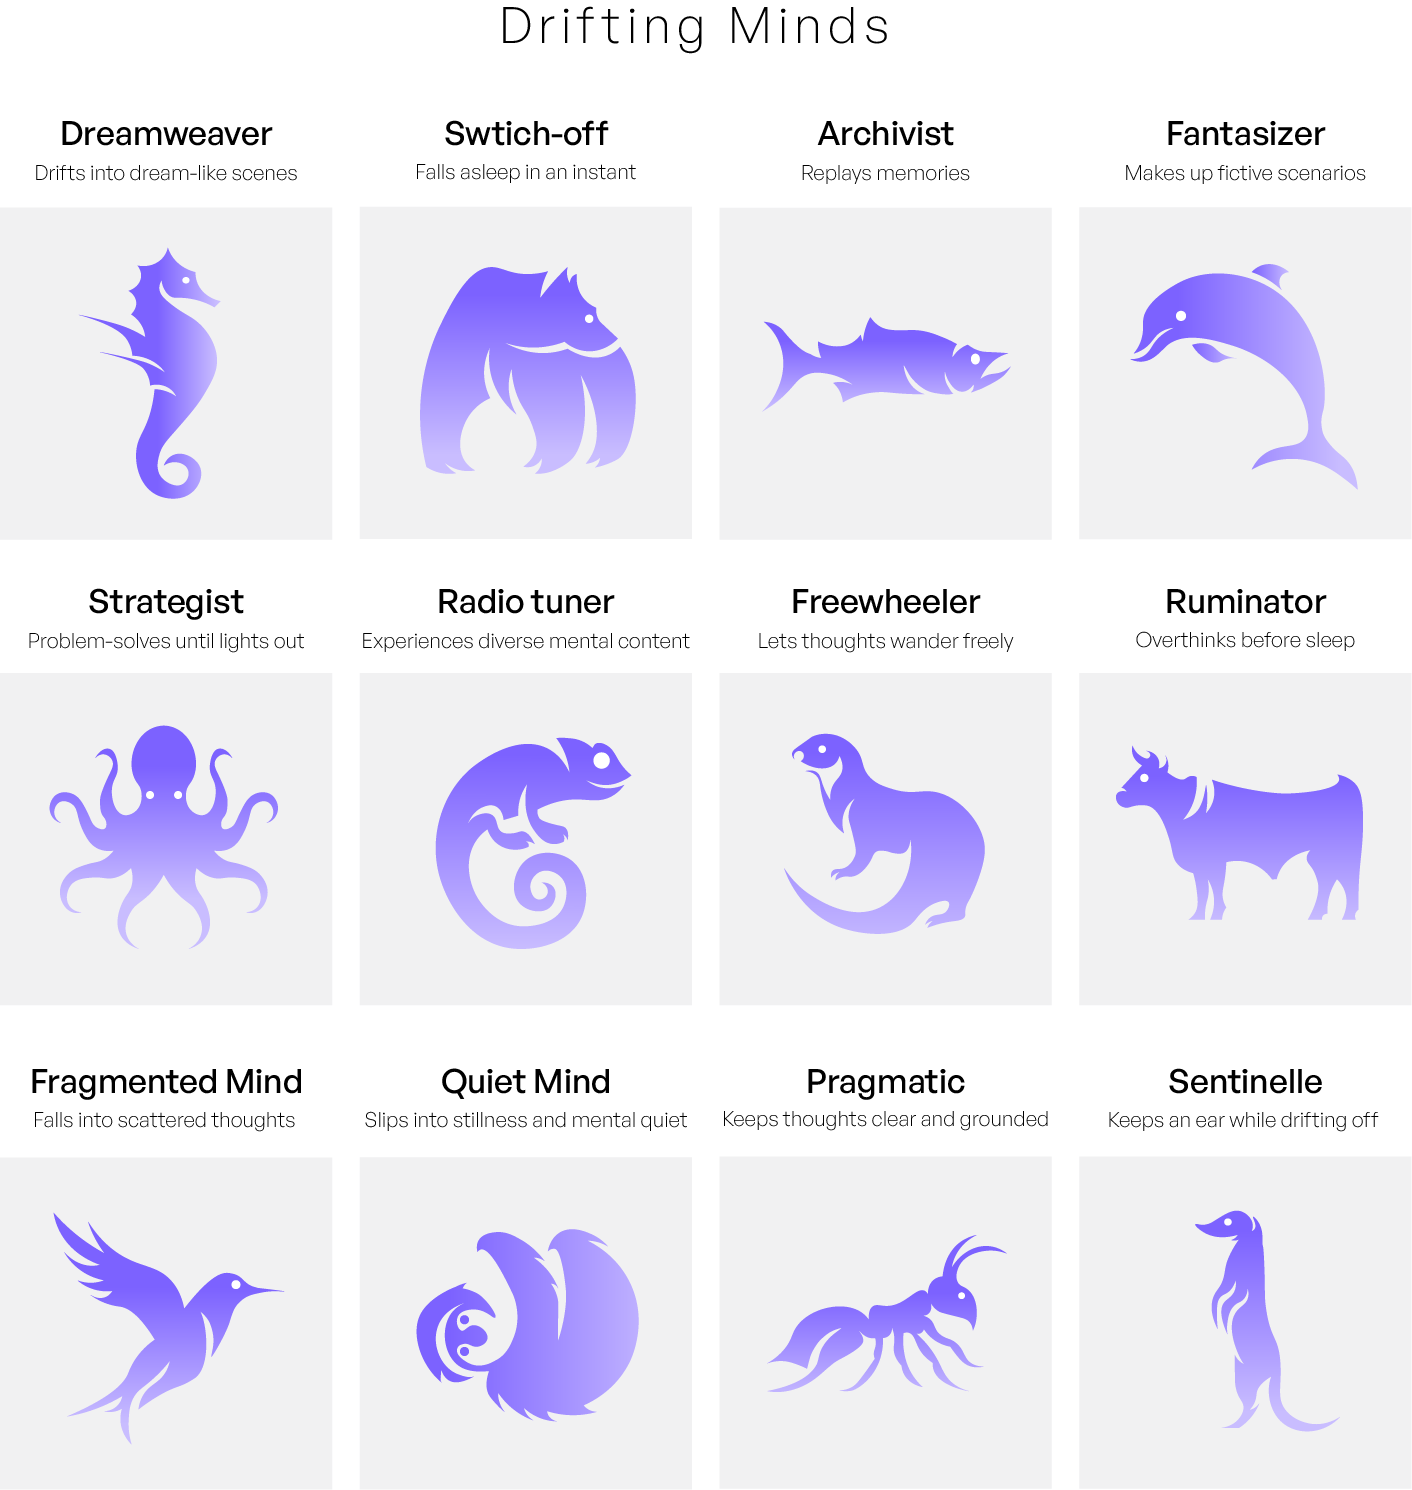
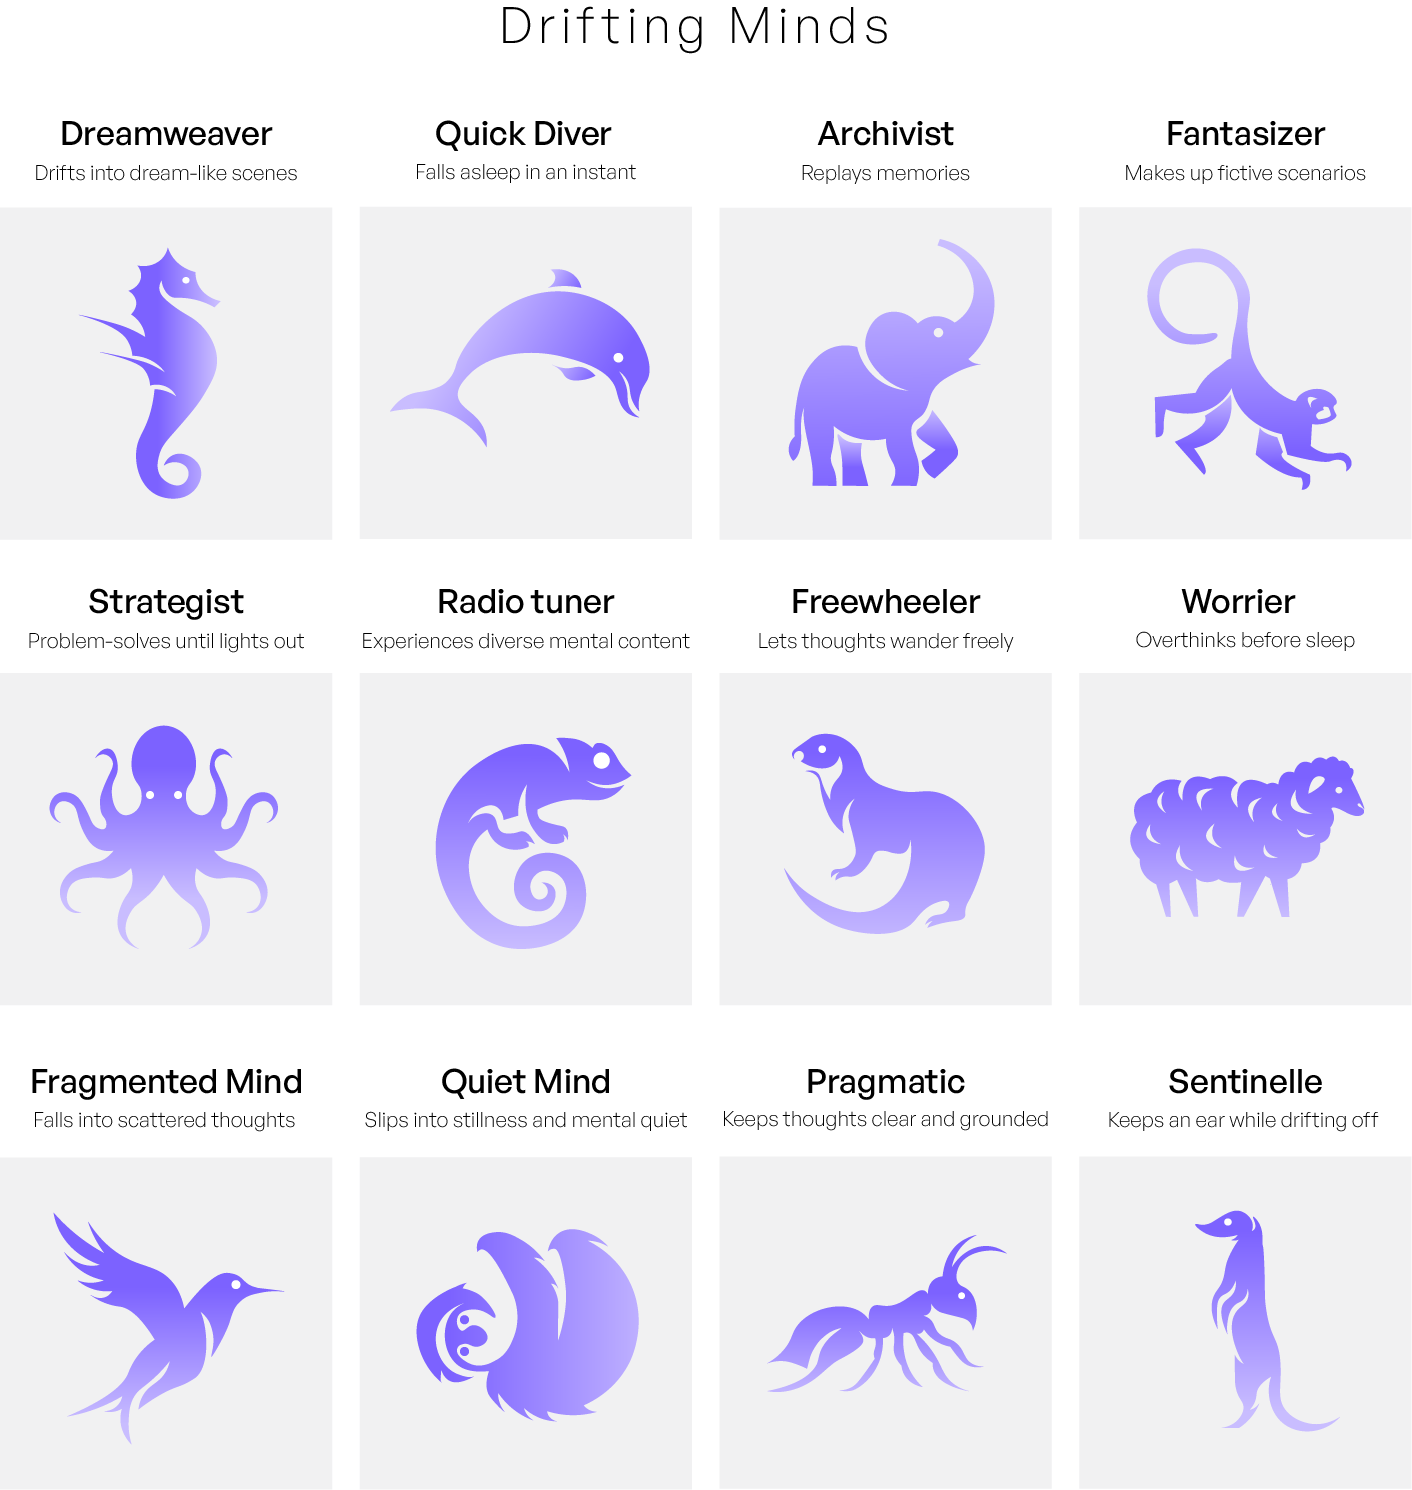
update pictograms

diff --git a/DM_results_viz.py b/DM_results_viz.py
@@ -970,7 +970,7 @@ PROFILES = {
             {"type":"var","key":["trajectories"],                       "norm": norm_eq, "norm_kwargs": {"value": 2}, "target": 1.0, "weight": 1.2}
         ],
         "description": "You fall asleep quickly, especially when you already feel sleepy.",
-        "icon": "bear.svg",
+        "icon": "dolphin.svg",
     },
     
        
@@ -1000,7 +1000,7 @@ PROFILES = {
              "norm": norm_1_6, "norm_kwargs": {}, "target": 0.55, "weight": 0.5},
     ],
     "description": "You tend to drift into constructed scenes or stories, with richer imagery and absorption.",
-    "icon": "dolphin.svg",
+    "icon": "monkey.svg",
     },
 
     
@@ -1018,7 +1018,7 @@ PROFILES = {
         },
     ],
     "description": "You mentally revisit the past as you fall asleep — replaying moments, conversations, or scenes that linger from the day, like an archivist sorting through memories before rest.",
-    "icon": "salmon.svg",
+    "icon": "elephant.svg",
     },
     
     # =====================================================================
@@ -1051,7 +1051,7 @@ PROFILES = {
              "norm": norm_1_6, "norm_kwargs": {}, "target": 0.40, "weight": 0.6},
     ],
     "description": "Your mind keeps turning over thoughts, often with tension or analysis before sleep. Longer latency and emotional charge reflect a tendency to ruminate.",
-    "icon": "cow.svg",
+    "icon": "sheep.svg",
     },
 
 
@@ -1091,7 +1091,7 @@ PROFILES = {
              "target": 0.18, "weight": 0.5, "hit_op": "lte"},
     ],
     "description": "Your mental field stays relatively quiet at lights-out—less vivid, less odd, less all-absorbing.",
-    "icon": "cat.svg",
+    "icon": "sloth.svg",
     },
 
     
